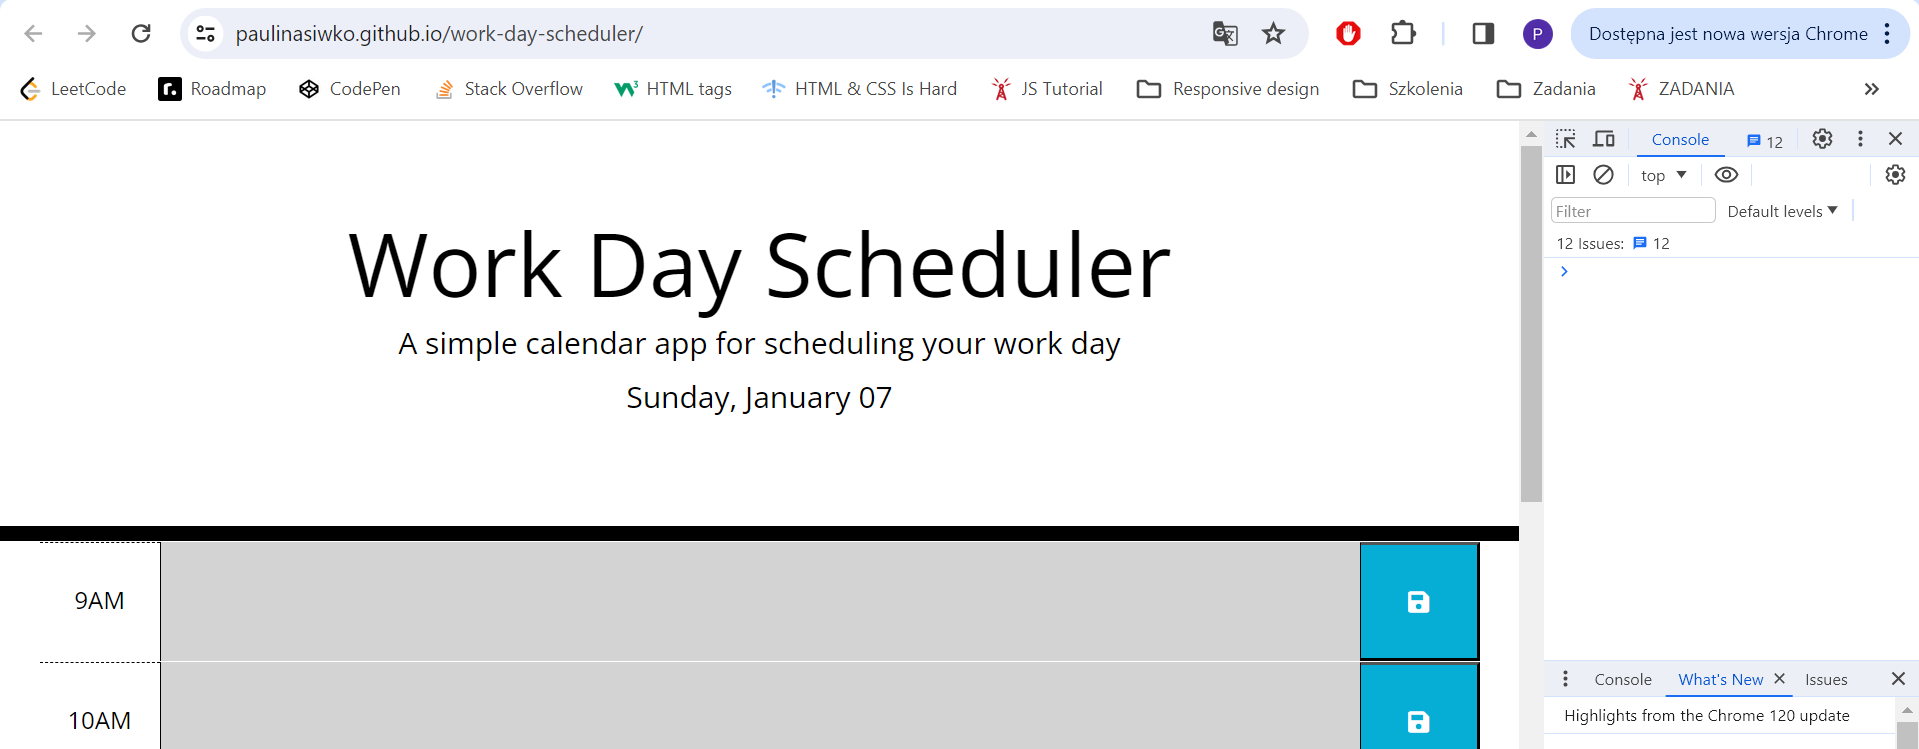
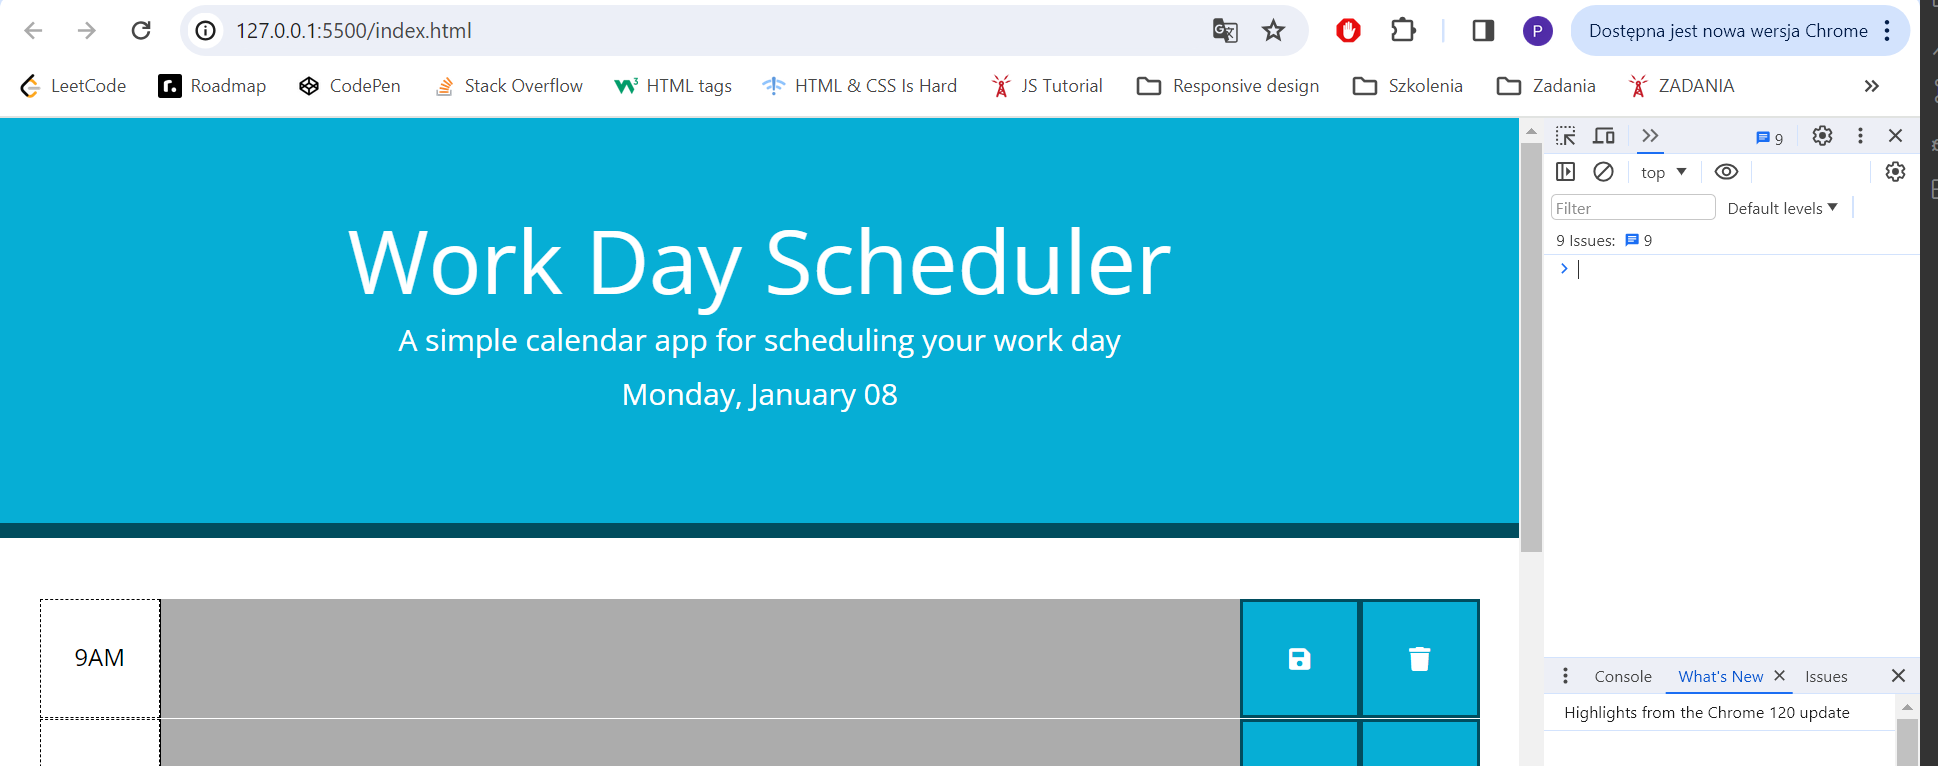
final commit

diff --git a/assets/js/script.js b/assets/js/script.js
@@ -35,7 +35,7 @@ function createRow(rowHour, savedText) {
     const hourCol = $("<div>").addClass("col-sm-1 hour").text(formatHourNumber(rowHour));
     const textCol = $("<textarea>").addClass("col-sm-9").text(savedText);
     const btnCol = $("<button>").addClass("col-sm-1 saveBtn");
-    const deleteCol = $("<button>").addClass("col-sm-1 deleteBtn");
+    const deleteCol = $("<button>").addClass("col-sm-1 saveBtn");
 
     const saveIcon = $("<i>").addClass("fas fa-save");
     const deleteIcon = $("<i>").addClass("fas fa-trash");

diff --git a/assets/css/style.css b/assets/css/style.css
@@ -82,15 +82,3 @@ header {
   font-size: 20px;
   transition: all 0.3s ease-in-out;
 }
-
-.deleteBtn {
-  background-color: var(--light-blue);
-  color: var(--white);
-  border-bottom: 2px solid var(--dark-blue);
-  border-top: 2px solid var(--dark-blue);
-  border-right: 2px solid var(--dark-blue);
-}
-
-.deleteBtn:hover {
-  background-color: var(--dark-blue);
-}
